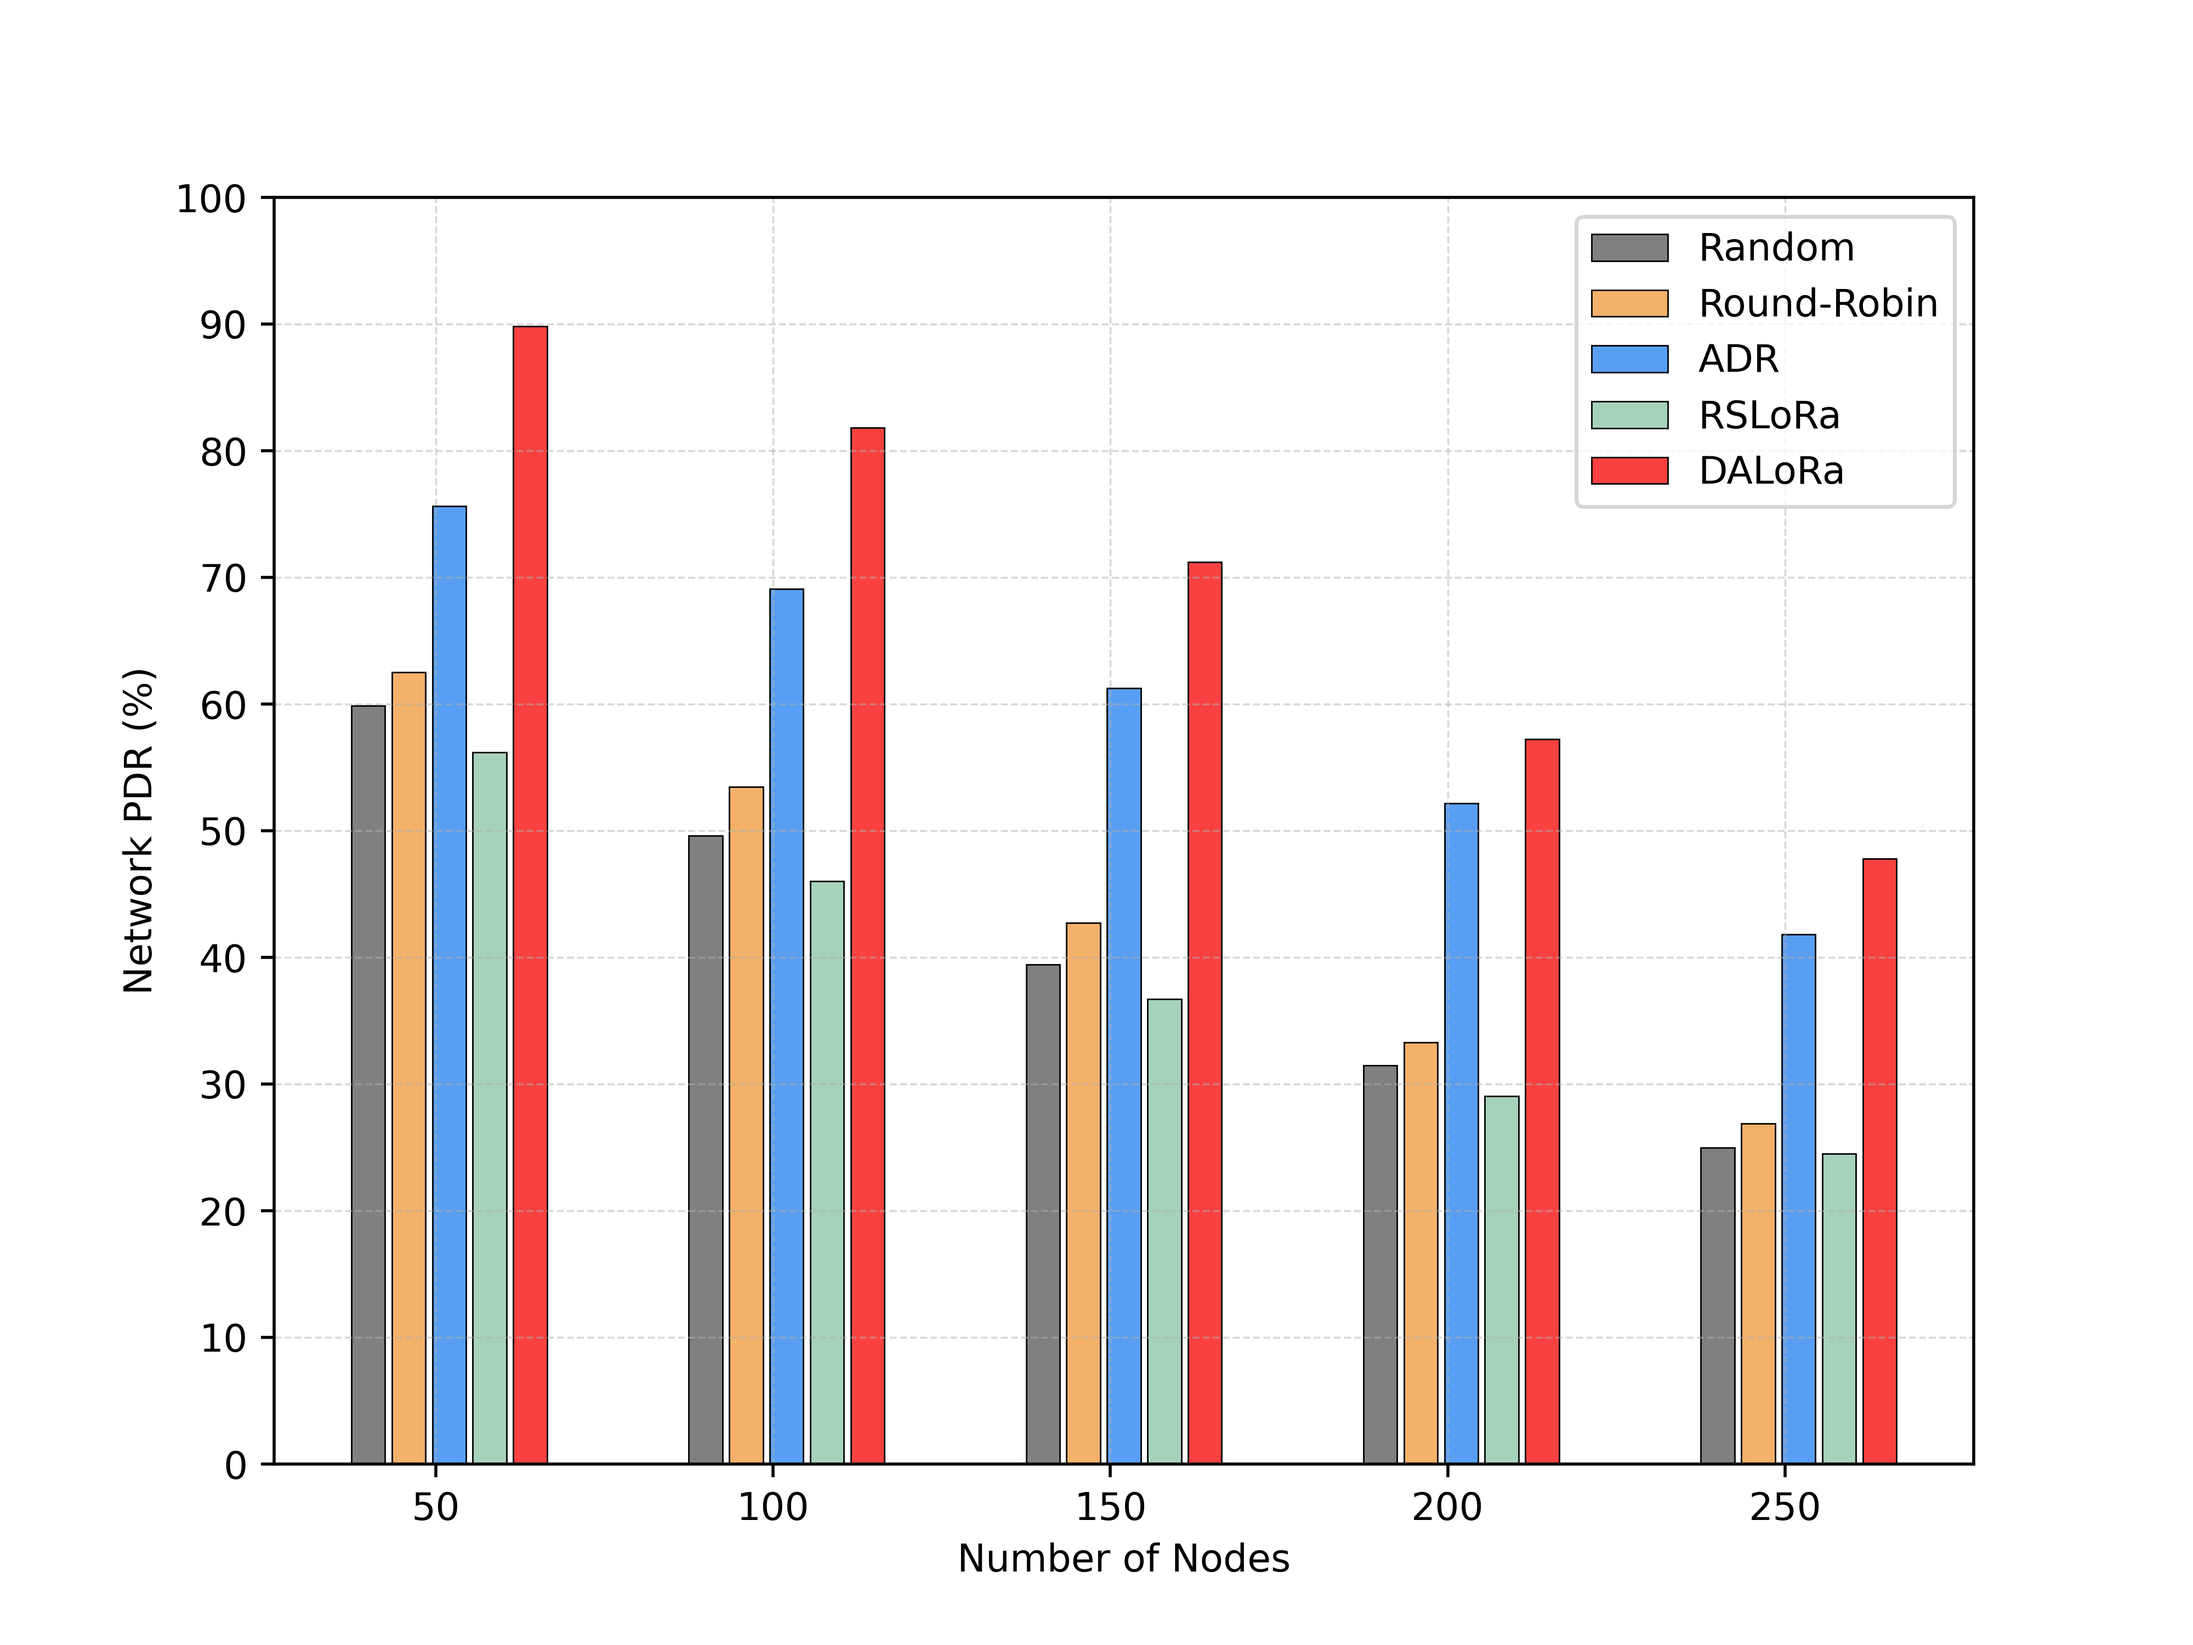
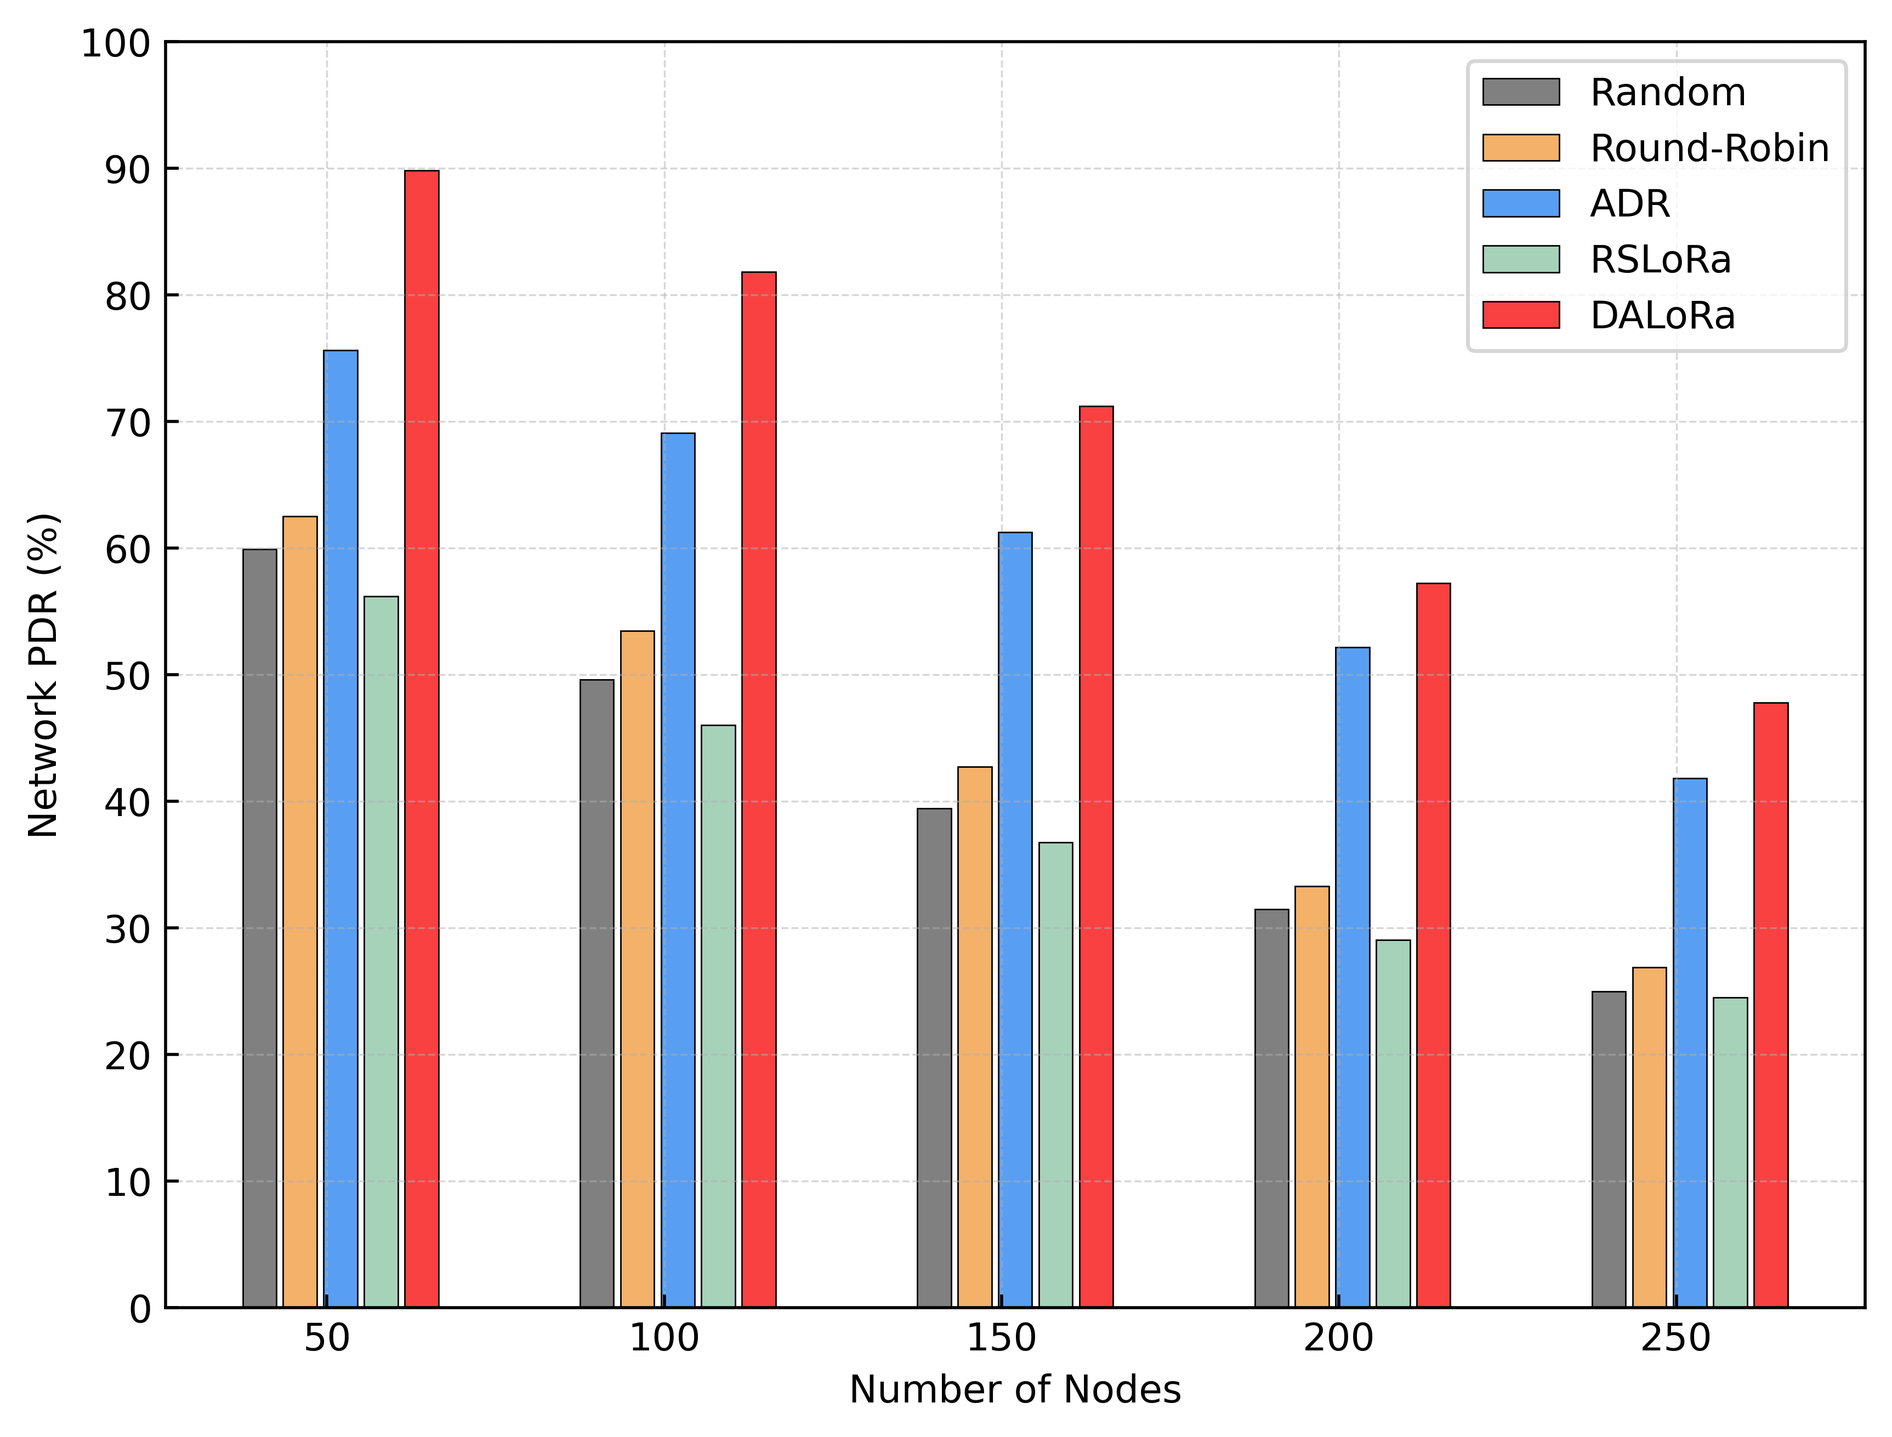
add experimental results

diff --git a/Figure.py b/Figure.py
@@ -114,6 +114,8 @@ plt.ylabel('Network PDR (%)')
 plt.xticks(radius)
 plt.yticks(range(0, 101, 10))
 plt.ylim(0, 100)
+plt.tick_params(axis='x', direction='in')  # x轴刻度线朝向图内
+plt.tick_params(axis='y', direction='in')  # y轴刻度线朝向图内
 plt.legend()
 plt.grid(True, linestyle='--', linewidth=0.5, alpha=0.5)
 plt.show()
@@ -122,7 +124,7 @@ figure_folder_path = "/home/uestc/LoRaSimulator/Joint-Parameter-Allocation-of-Lo
 if not os.path.exists(figure_folder_path):
         os.makedirs(figure_folder_path)
 fig_name = 'TropologyRadius_NetworkPDR_bar_chart.png'
-plt.savefig(os.path.join(figure_folder_path, fig_name), dpi=500)
+plt.savefig(os.path.join(figure_folder_path, fig_name), dpi=500, bbox_inches='tight')
 
 
 '''Network EE'''
@@ -138,12 +140,14 @@ plt.ylabel('Network Energy Efficiency (bits/mJ)')
 plt.xticks(radius)
 plt.yticks(range(0, 16, 1))
 plt.ylim(0, 15) 
+plt.tick_params(axis='x', direction='in')  # x轴刻度线朝向图内
+plt.tick_params(axis='y', direction='in')  # y轴刻度线朝向图内
 plt.legend()
 plt.grid(True, linestyle='--', linewidth=0.5, alpha=0.5)
 plt.show()
 
 fig_name = 'TropologyRadius_NetworkEE_bar_chart.png'
-plt.savefig(os.path.join(figure_folder_path, fig_name), dpi=500)
+plt.savefig(os.path.join(figure_folder_path, fig_name), dpi=500, bbox_inches='tight')
 
 '''Network Throughput'''
 plt.figure(figsize=(8, 6))  # 设置图形大小
@@ -158,12 +162,14 @@ plt.ylabel('Network Throughput (bps)')
 plt.xticks(radius)
 plt.yticks(range(0, 950, 100))
 plt.ylim(0, 900) 
+plt.tick_params(axis='x', direction='in')  # x轴刻度线朝向图内
+plt.tick_params(axis='y', direction='in')  # y轴刻度线朝向图内
 plt.legend()
 plt.grid(True, linestyle='--', linewidth=0.5, alpha=0.5)
 plt.show()
 
 fig_name = 'TropologyRadius_NetworkThropughput_bar_chart.png'
-plt.savefig(os.path.join(figure_folder_path, fig_name), dpi=500)
+plt.savefig(os.path.join(figure_folder_path, fig_name), dpi=500, bbox_inches='tight')
 
 
 '''Network Performance'''
@@ -181,12 +187,14 @@ plt.ylabel('Network Performance Index')
 plt.xticks(radius)
 plt.yticks([round(num, 3) for num in list(np.arange(0, 1.1, 0.10))])
 plt.ylim(0, 1) 
+plt.tick_params(axis='x', direction='in')  # x轴刻度线朝向图内
+plt.tick_params(axis='y', direction='in')  # y轴刻度线朝向图内
 plt.legend()
 plt.grid(True, linestyle='--', linewidth=0.5, alpha=0.5)
 plt.show()
 
 fig_name = 'TropologyRadius_NetworkPerformance_line_chart.png'
-plt.savefig(os.path.join(figure_folder_path, fig_name), dpi=500)
+plt.savefig(os.path.join(figure_folder_path, fig_name), dpi=500, bbox_inches='tight')
 
 
 # '''Minimum Node PDR'''
@@ -228,11 +236,13 @@ plt.xticks(num_of_nodes)
 plt.yticks(range(0, 101, 10))
 plt.ylim(0, 100) 
 plt.legend()
+plt.tick_params(axis='x', direction='in')  # x轴刻度线朝向图内
+plt.tick_params(axis='y', direction='in')  # y轴刻度线朝向图内
 plt.grid(True, linestyle='--', linewidth=0.5, alpha=0.5)
 plt.show()
 
 fig_name = 'NumberofNodes_NetworkPDR_bar_chart.png'
-plt.savefig(os.path.join(figure_folder_path, fig_name), dpi=500)
+plt.savefig(os.path.join(figure_folder_path, fig_name), dpi=500, bbox_inches='tight')
 
 '''Network EE'''
 plt.figure(figsize=(8, 6))  # 设置图形大小
@@ -247,11 +257,13 @@ plt.xticks(num_of_nodes)
 plt.yticks(range(0, 10, 1))
 plt.ylim(0, 9) 
 plt.legend()
+plt.tick_params(axis='x', direction='in')  # x轴刻度线朝向图内
+plt.tick_params(axis='y', direction='in')  # y轴刻度线朝向图内
 plt.grid(True, linestyle='--', linewidth=0.5, alpha=0.5)
 plt.show()
 
 fig_name = 'NumberofNodes_NetworkEE_bar_chart.png'
-plt.savefig(os.path.join(figure_folder_path, fig_name), dpi=500)
+plt.savefig(os.path.join(figure_folder_path, fig_name), dpi=500, bbox_inches='tight')
 
 
 '''Network Throughput'''
@@ -267,11 +279,13 @@ plt.xticks(num_of_nodes)
 plt.yticks(range(0, 800, 100))
 plt.ylim(0, 750) 
 plt.legend()
+plt.tick_params(axis='x', direction='in')  # x轴刻度线朝向图内
+plt.tick_params(axis='y', direction='in')  # y轴刻度线朝向图内
 plt.grid(True, linestyle='--', linewidth=0.5, alpha=0.5)    
 plt.show()
 
 fig_name = 'NumberofNodes_NetworkThroughput_bar_chart.png'
-plt.savefig(os.path.join(figure_folder_path, fig_name), dpi=500)
+plt.savefig(os.path.join(figure_folder_path, fig_name), dpi=500, bbox_inches='tight')
 
 
 '''Network Performance'''
@@ -291,12 +305,14 @@ plt.xticks(num_of_nodes)
 plt.yticks([round(num,3) for num in list(np.arange(0, 1.1, 0.1))])
 # plt.ylim(1.400, 2.700) 
 plt.ylim(0, 1) 
+plt.tick_params(axis='x', direction='in')  # x轴刻度线朝向图内
+plt.tick_params(axis='y', direction='in')  # y轴刻度线朝向图内
 plt.legend()
 plt.grid(True, linestyle='--', linewidth=0.5, alpha=0.5)
 plt.show()
 
 fig_name = 'NumberofNodes_NetworkPerformance_line_chart.png'
-plt.savefig(os.path.join(figure_folder_path, fig_name), dpi=500)
+plt.savefig(os.path.join(figure_folder_path, fig_name), dpi=500, bbox_inches='tight')
 
 # '''Minimum Node PDR'''
 # plt.figure(figsize=(10, 6))  # 设置图形大小
